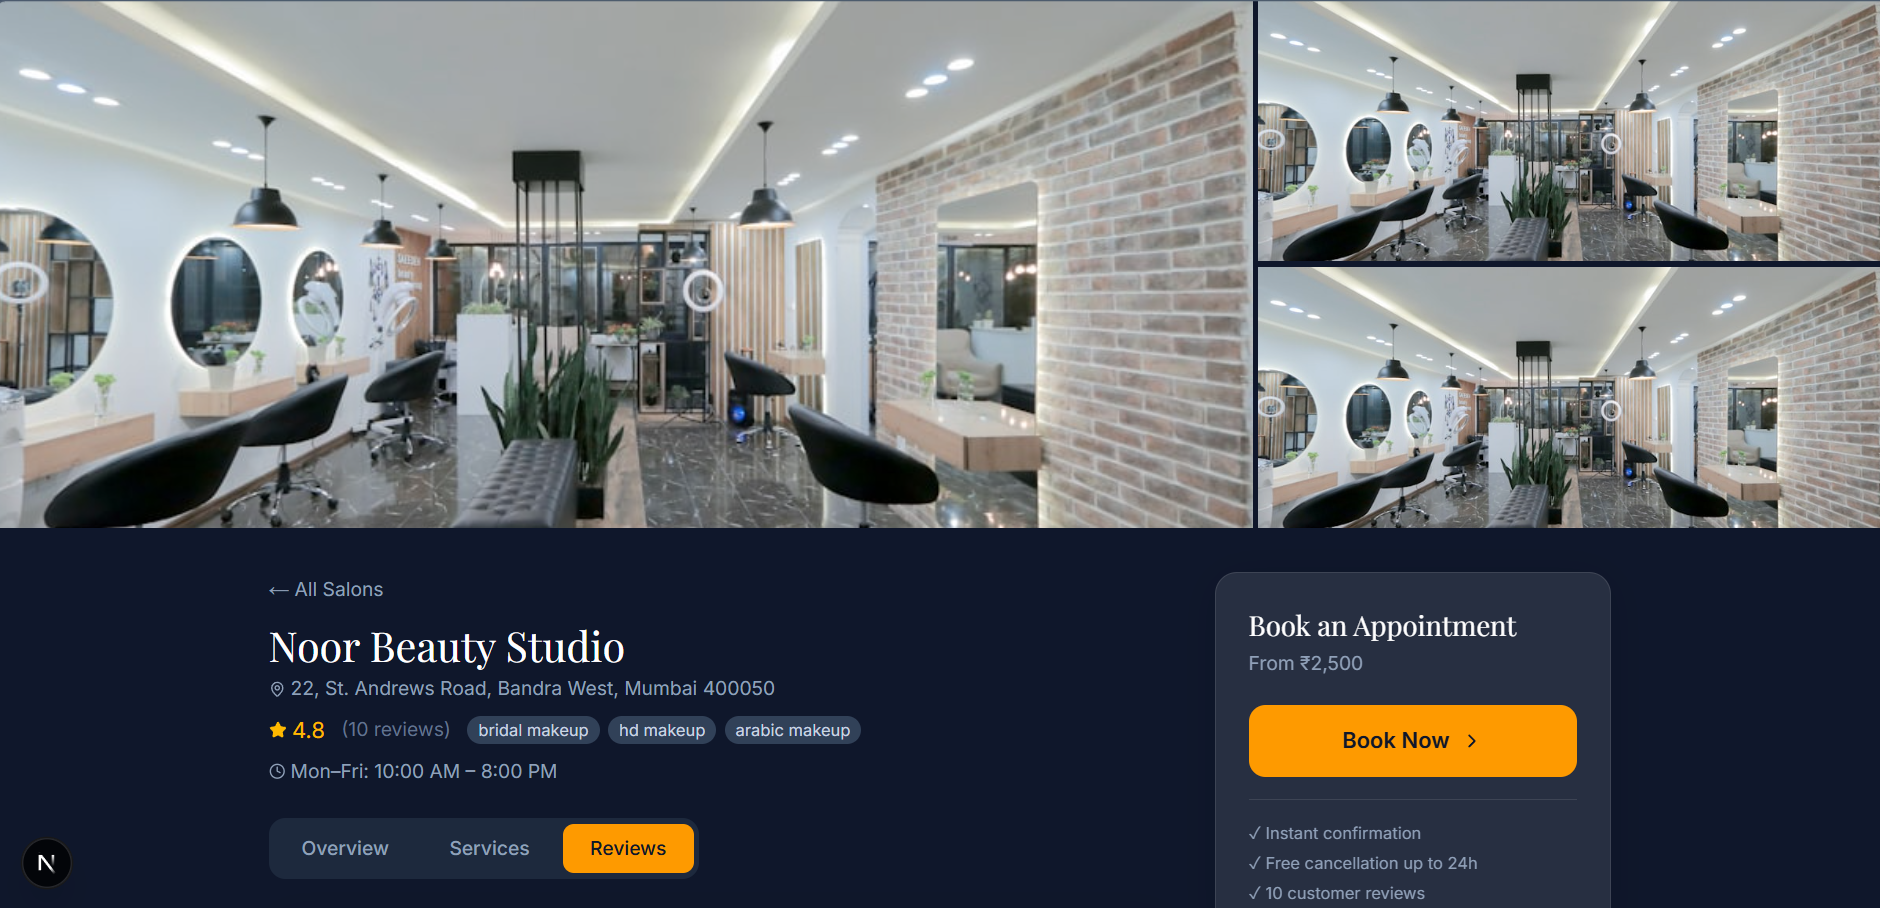
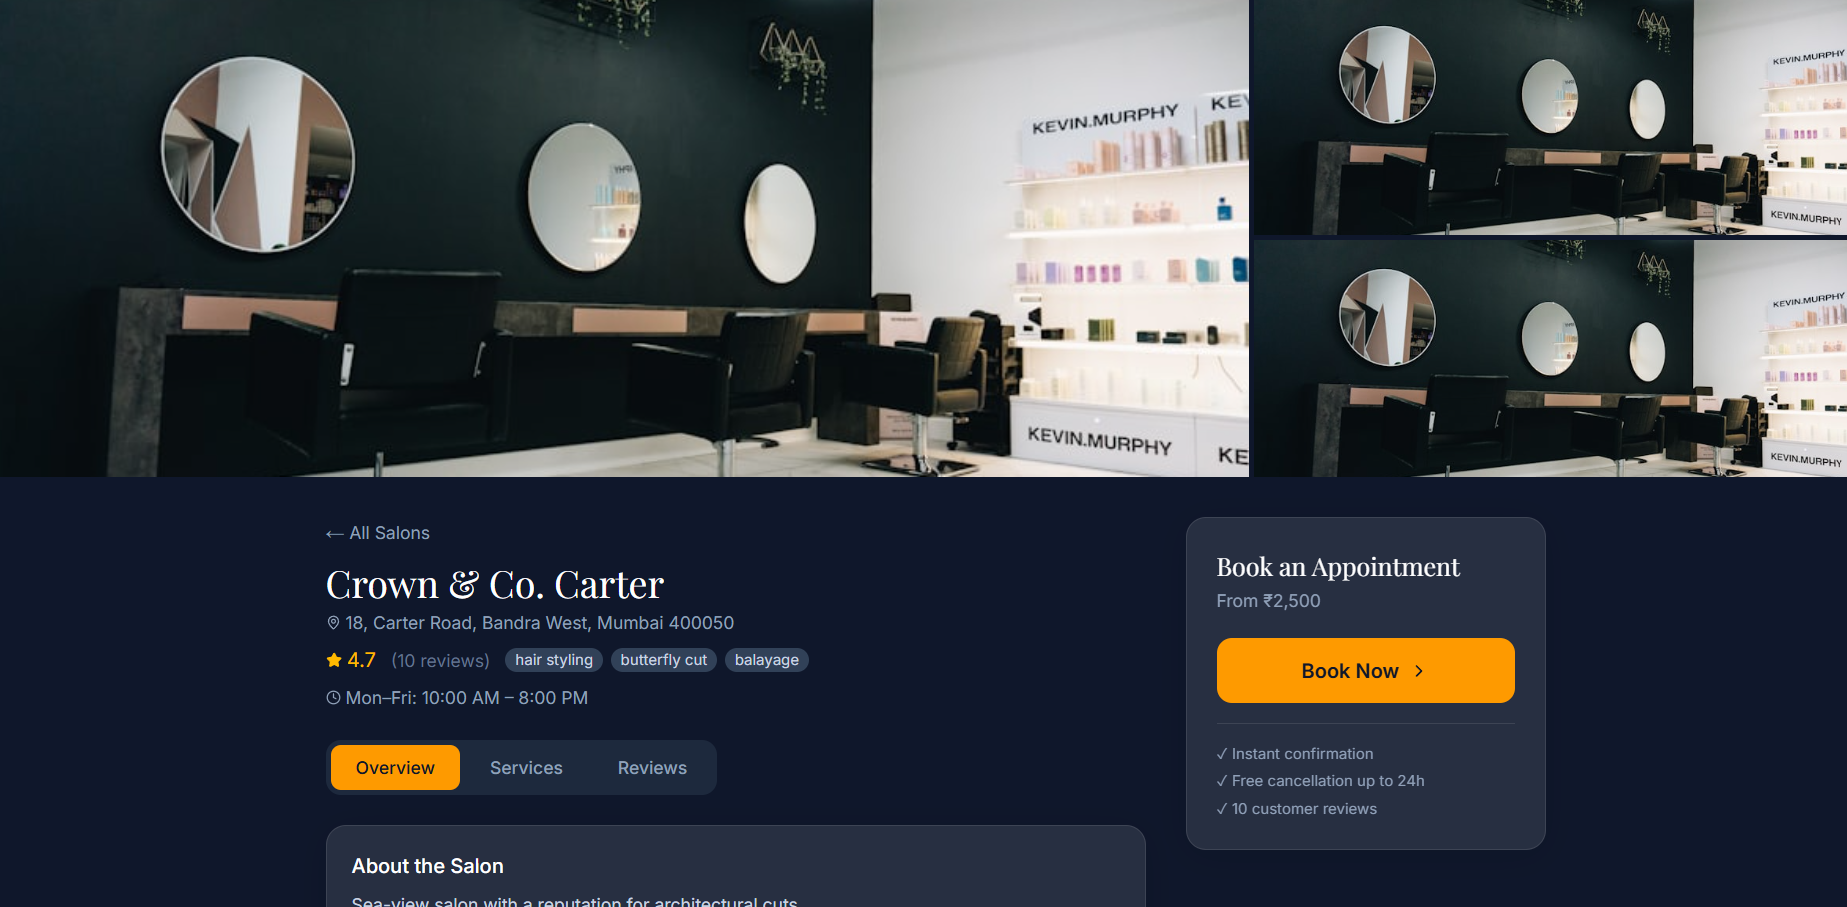
Final "all Done""

diff --git a/README.md b/README.md
@@ -1,7 +1,7 @@
 <div align="center">
 
-# Zuri
-**Mumbai's Premium AI-Powered Salon Marketplace**
+<!-- # Zuri
+**Mumbai's Premium AI-Powered Salon Marketplace** -->
 
 <img src="Output_Image\Zuri_LandingPage.png" alt="Zuri Landing Page" width="800" style="border-radius: 20px; box-shadow: 0 0 20px rgba(212,175,55,0.3); margin-top: 15px; margin-bottom: 25px;">
 
@@ -176,24 +176,67 @@ Navigate to `http://localhost:3000` to view the application!
 Here is a visual tour of the Zuri platform across the workflow.
 
 - **1. Landing Page:**
-  ![Landing Page](./Output_image/1_landing.png)
+  ![Landing Page](Output_Image\Zuri_LandingPage.png)
   
 - **2. Authentication / Signup:**
-  ![Signup Screen](./Output_image/2_signup.png)
+  ![Signup Screen](Output_Image\Zuri_AuthScreen.png)
 
-- **3. Customer Flow - Discover Salons:**
-  ![Discover Salons](./Output_image/3_discover.png)
+## User Side: Features
+
+- **3.Customer Flow -  User Home Screen:**
+  ![Discover Salons](Output_Image\Zuri_Home_1.png)
   
-- **4. Customer Flow - AI Diagnostics Studio:**
-  ![Diagnostics Tool](./Output_image/4_diagnostics.png)
+- **4. Customer Flow - Zuri AI Feature**
+  ![Diagnostics Tool](Output_Image\Zuri_AIFactures.png)
 
-- **5. Customer Flow - Salon Booking:**
-  ![Booking Screen](./Output_image/5_booking.png)
+## AI  Based Features
+- **5.Customer Flow - AI Hair Care Tips (input)**
+  ![Hair Care Tips](Output_Image\Zuri_AI_HairCareTip.png)
 
-- **6. Salon Owner Flow - Analytics Dashboard:**
-  ![Owner Dashboard](./Output_image/6_owner_dashboard.png)
+  **6. Customer Flow - AI Hair Care Tips (output)**
+  ![Hair Care Tips](Output_Image\Zuri_Hair_Result-01.png)
+  ![Hair Care Tips](Output_Image\Zuri_Hair_result_02.png)
 
----
+- **6.Customer Flow - AI Diagnostics Studio**
+  ![AI Diagnostics Studio](Output_Image\Zuri_AI_Diagonstic.png)
+  
+- **7.Customer Flow - AI Diagnostics Studio:Skin Care Analysis**
+  ![AI Diagnostics Studio](Output_Image\Zuri_AID_Result_A.png)
+
+- **8.Customer Flow - AI Diagnostics Studio:Color Analysis**
+  ![AI Diagnostics Studio](Output_Image\Zuri_AID_Result_B.png)
+
+- **9.Customer Flow - AI Bandra Style Mirror**
+  ![AI Bandra Style Mirror](Output_Image\Zuri_AI_styleMirror.png)
+
+ **11. Customer Flow - Discover/ Search Salons**
+  ![Booking Screen](Output_Image\Zuri_Search.png)
+
+  **12. Customer Flow - Salon Profile**
+  ![Salon Profile](Output_Image\Zuri_salonProfile.png)
+
+- **11.Customer Flow - AI Review Analysis|| Sentimental Analysis**
+  ![Owner Dashboard](Output_Image\Zuri_Ai_ReviewAnalysis.png)
+
+- **12.Customer Flow - Salon Appointment Booking: Solo**
+  ![Solo Appointment Booking](Output_Image\Zuri_Booking_solo.png)
+
+- **13.Customer Flow - Salon Appointment Booking: Group**
+  ![Group Appointment Booking](Output_Image\Zuri_Gbooking_02.png)
+
+-## Salon side 
+- **14. Salon Side - Salon Dashboard**
+  ![Salon Profile](Output_Image\Zuri_SalonDashbroad.png)
+
+- **15. Salon Side - Appointment Dashboard**
+  ![Salon Profile](Output_Image\zuri_salonBooking_2.png)
+
+  **16. Salon Side -Appointment Booking Compeleted**
+  ![Salon Profile](Output_Image\zuri_salonBooking_3.png)
+
+- **10.Customer Flow - AI Review Analysis**
+  ![AI Haircuts](Output_Image\Zuri_Ai_ReviewAnalysis(2).png)
+
 
 ## Project Information
 